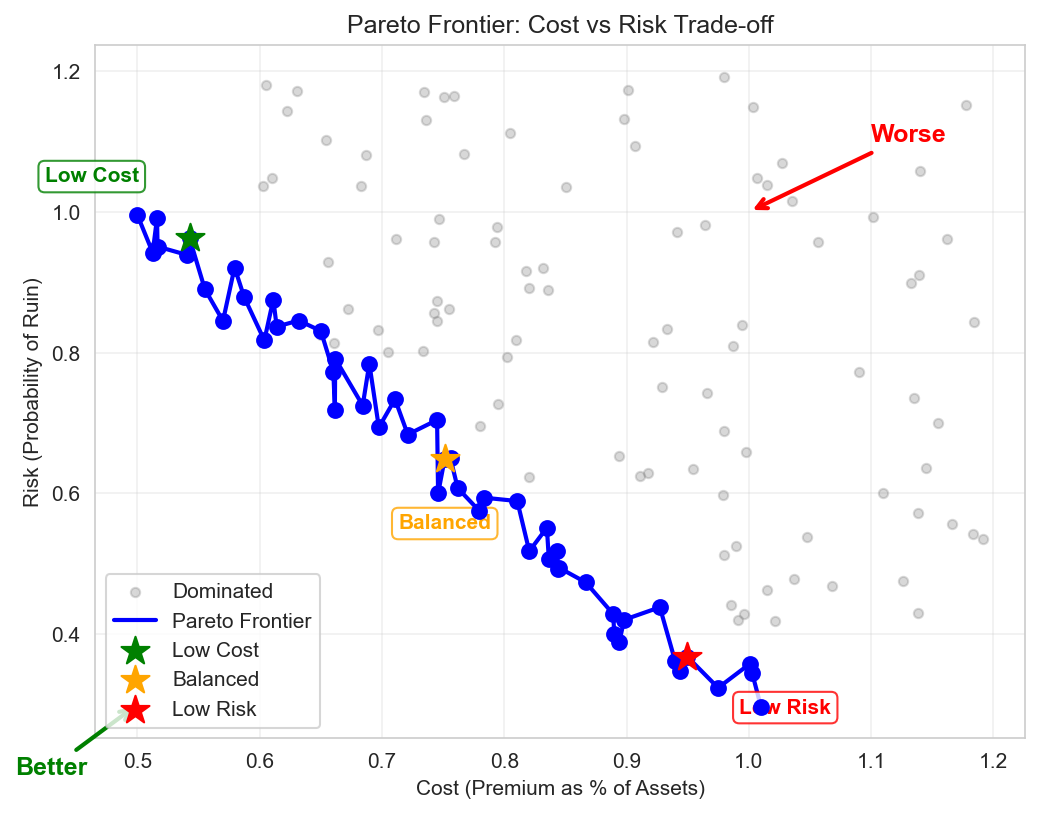
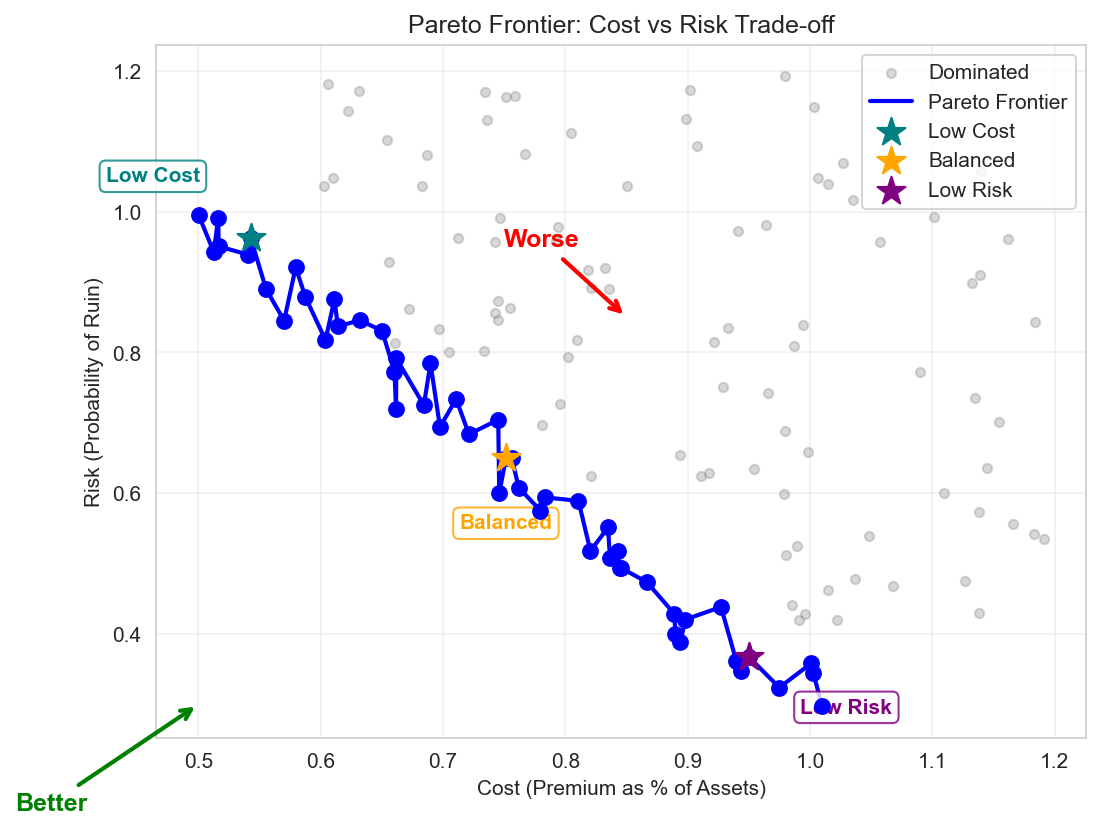
update theory visuals

diff --git a/ergodic_insurance/docs/theory/generate_visuals.py b/ergodic_insurance/docs/theory/generate_visuals.py
@@ -490,7 +490,7 @@ def plot_pareto_frontier():
     ax.scatter(
         costs_array[idx_low_cost],
         risks_array[idx_low_cost],
-        color="green",
+        color="teal",
         s=200,
         marker="*",
         label="Low Cost",
@@ -508,7 +508,7 @@ def plot_pareto_frontier():
     ax.scatter(
         costs_array[idx_low_risk],
         risks_array[idx_low_risk],
-        color="red",
+        color="purple",
         s=200,
         marker="*",
         label="Low Risk",
@@ -521,10 +521,10 @@ def plot_pareto_frontier():
         xy=(costs_array[idx_low_cost], risks_array[idx_low_cost]),
         xytext=(costs_array[idx_low_cost] - 0.08, risks_array[idx_low_cost] + 0.08),
         fontsize=10,
-        color="green",
+        color="teal",
         fontweight="bold",
         ha="center",
-        bbox=dict(boxstyle="round,pad=0.3", facecolor="white", edgecolor="green", alpha=0.8),
+        bbox=dict(boxstyle="round,pad=0.3", facecolor="white", edgecolor="teal", alpha=0.8),
     )
     ax.annotate(
         "Balanced",
@@ -541,23 +541,23 @@ def plot_pareto_frontier():
         xy=(costs_array[idx_low_risk], risks_array[idx_low_risk]),
         xytext=(costs_array[idx_low_risk] + 0.08, risks_array[idx_low_risk] - 0.08),
         fontsize=10,
-        color="red",
+        color="purple",
         fontweight="bold",
         ha="center",
-        bbox=dict(boxstyle="round,pad=0.3", facecolor="white", edgecolor="red", alpha=0.8),
+        bbox=dict(boxstyle="round,pad=0.3", facecolor="white", edgecolor="purple", alpha=0.8),
     )
 
     ax.set_xlabel("Cost (Premium as % of Assets)")
     ax.set_ylabel("Risk (Probability of Ruin)")
     ax.set_title("Pareto Frontier: Cost vs Risk Trade-off")
-    ax.legend()
+    ax.legend(loc="upper right")  # Move legend to upper right to avoid "Better" annotation
     ax.grid(True, alpha=0.3)
 
-    # Add annotations
+    # Add annotations - adjust "Better" position to avoid legend
     ax.annotate(
         "Better",
         xy=(0.5, 0.3),
-        xytext=(0.4, 0.2),
+        xytext=(0.35, 0.15),
         arrowprops=dict(arrowstyle="->", color="green", lw=2),
         fontsize=12,
         color="green",
@@ -565,8 +565,8 @@ def plot_pareto_frontier():
     )
     ax.annotate(
         "Worse",
-        xy=(1.0, 1.0),
-        xytext=(1.1, 1.1),
+        xy=(0.85, 0.85),
+        xytext=(0.75, 0.95),
         arrowprops=dict(arrowstyle="->", color="red", lw=2),
         fontsize=12,
         color="red",
